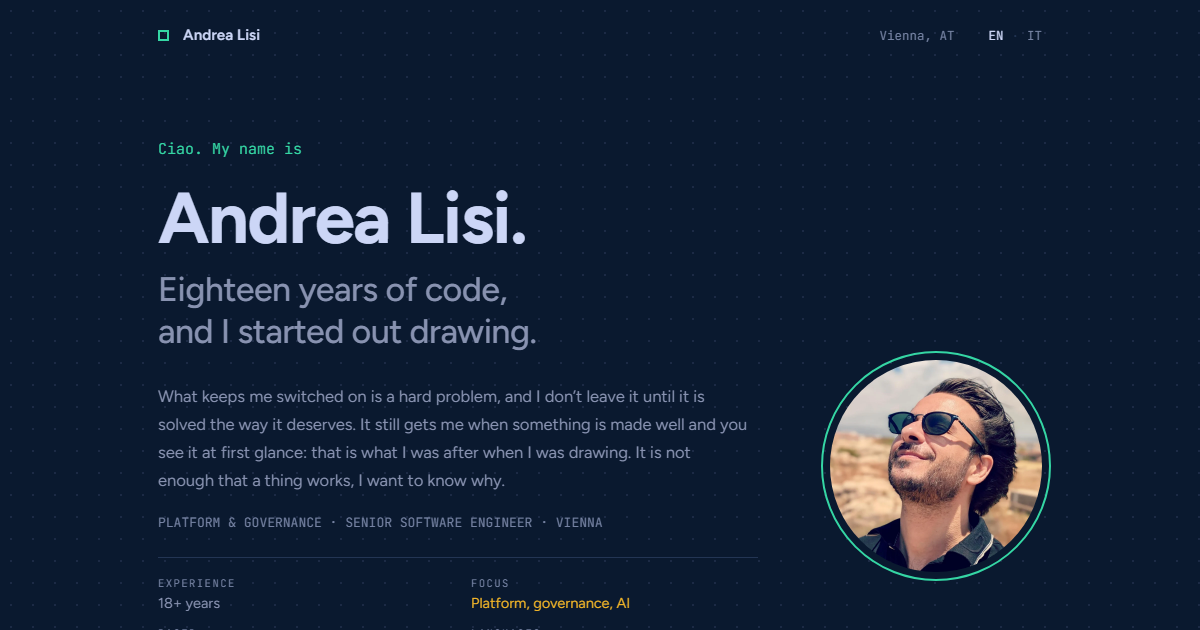
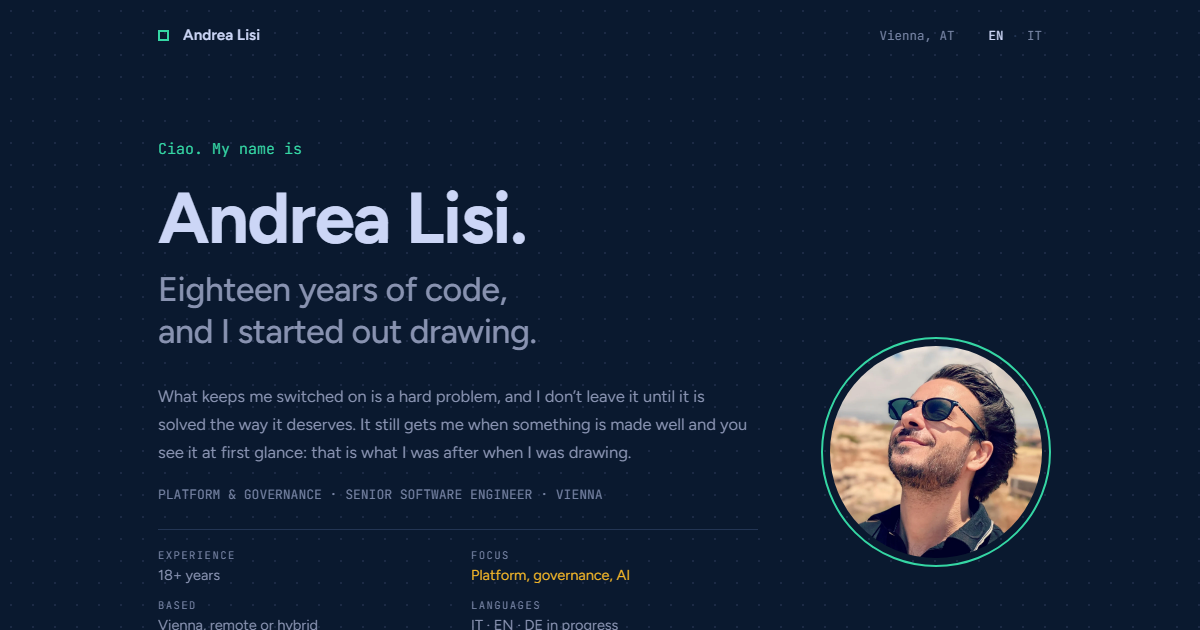
feat: close the career with what the steps add up to
His paragraph, and its middle two sentences are the clearest statement of
seniority anywhere in this project: not looking at the single feature but at the
foundations that hold the whole thing up. Nothing else here said what changed
about how he works, which is the actual argument for the level.

Placed after the four entries rather than in the hero, because "ogni tappa" is
about the steps and a reader cannot be told what they add up to before being
shown them. The suite pins it as the last element in the section, so it cannot
drift up into a lead.

Three edits to it. "Guardando indietro, vedo come ogni tappa abbia allargato il
mio sguardo" announced a reflection instead of making one, so it is now the
reflection: "Ogni tappa mi ha spostato lo sguardo un po' più in là del codice."
"Ho assimilato la programmazione" reads clinical for learning to code, so it is
"ci sono arrivato". And "ecosistema" went to "insieme", the word he uses himself
in the next breath.

The hero lost its last sentence, "non mi basta che funzioni, voglio sapere
perché", because the closing line makes the same claim and makes it better: not
wanting to know why, but knowing the whole thing holds. The hero now ends on the
drawing, which is its own note.

The English needed more than a translation. "Broadened my gaze" and "I
assimilated programming" are not things an English speaker says.

diff --git a/src/i18n/en.ts b/src/i18n/en.ts
@@ -43,7 +43,7 @@ export const en: Copy = {
       { label: 'FOUNDATION', value: 'Art school, Florence', tone: 'root' },
     ],
     intro:
-      'What keeps me switched on is a hard problem, and I don’t leave it until it is solved the way it deserves. It still gets me when something is made well and you see it at first glance: that is what I was after when I was drawing. It is not enough that a thing works, I want to know why.',
+      'What keeps me switched on is a hard problem, and I don’t leave it until it is solved the way it deserves. It still gets me when something is made well and you see it at first glance: that is what I was after when I was drawing.',
     buttons: { github: 'GITHUB', linkedin: 'LINKEDIN', email: 'EMAIL', cv: 'CV.PDF ↓' },
   },
 
@@ -143,6 +143,9 @@ export const en: Copy = {
       ],
     },
   ],
+
+  workClosing:
+    'Every step moved my attention a little further out from the code. I came to programming through art, looking for the same structural harmony, and today I don’t look at the single feature: I look at the foundations, the automation and the rules that hold the whole thing up. <b>I fix things at the root</b>, because it is not enough that one piece works: I need to know it holds the rest.',
 
   footer: {
     built: 'Written, designed and shipped by me.',

diff --git a/src/i18n/it.ts b/src/i18n/it.ts
@@ -49,7 +49,7 @@ export const it: Copy = {
       { label: 'FORMAZIONE', value: 'Istituto d’Arte, Firenze', tone: 'root' },
     ],
     intro:
-      'Quello che mi tiene acceso è un problema difficile, e non lo lascio finché non è risolto come si deve. Mi fa ancora effetto quando una cosa è fatta bene e si capisce al primo sguardo: è quello che cercavo quando disegnavo. Non mi basta che funzioni, voglio sapere perché.',
+      'Quello che mi tiene acceso è un problema difficile, e non lo lascio finché non è risolto come si deve. Mi fa ancora effetto quando una cosa è fatta bene e si capisce al primo sguardo: è quello che cercavo quando disegnavo.',
     buttons: { github: 'GITHUB', linkedin: 'LINKEDIN', email: 'EMAIL', cv: 'CV.PDF ↓' },
   },
 
@@ -149,6 +149,9 @@ export const it: Copy = {
       ],
     },
   ],
+
+  workClosing:
+    'Ogni tappa mi ha spostato lo sguardo un po’ più in là del codice. Alla programmazione ci sono arrivato dall’arte, cercando la stessa armonia strutturale, e oggi non guardo la singola feature: guardo le fondamenta, le automazioni e le regole che tengono in piedi l’insieme. <b>Risolvo alla radice</b>, perché non mi basta che un pezzo funzioni: devo sapere che regge tutto il resto.',
 
   footer: {
     built: 'Scritto, disegnato e messo online da me.',

diff --git a/tests/e2e/homepage.spec.ts b/tests/e2e/homepage.spec.ts
@@ -135,6 +135,12 @@ for (const locale of ['en', 'it'] as const) {
         await expect(card.locator('.duty')).toHaveCount(job.paragraphs.length);
         await expect(card.locator('.chip')).toHaveCount(job.tags.length);
       }
+
+      // The closing line only means anything after the entries, so it has to be
+      // the last thing in the section, not a lead over it.
+      const closing = page.locator('.work .closing');
+      await expect(closing).toHaveText(plain(copy.workClosing));
+      expect(await closing.evaluate((el) => el === el.parentElement?.lastElementChild)).toBe(true);
     });
 
     test('closes on an invitation, with the address behind the mail icon', async ({ page }) => {

diff --git a/src/components/work.css b/src/components/work.css
@@ -136,6 +136,24 @@
   color: var(--body);
 }
 
+/* What the four entries add up to. It reads as the conclusion of the section,
+   so it gets the rule above it that separates the cards and a little more size
+   than the duties it follows. */
+.work .closing {
+  margin: 34px 0 0;
+  padding-top: 30px;
+  border-top: 1px solid var(--line);
+  max-width: 66ch;
+  font-size: 16px;
+  line-height: 1.75;
+  color: var(--body);
+}
+
+.work .closing b {
+  color: var(--head);
+  font-weight: 600;
+}
+
 /* Ten years of drawing started here, so the mark matches the hero. */
 .work .chip.root svg {
   color: var(--root);

diff --git a/src/i18n/types.ts b/src/i18n/types.ts
@@ -125,6 +125,13 @@ export type Copy = {
 
   work: WorkEntry[];
 
+  /**
+   * HTML: the line that closes the career, after the four entries. It only
+   * works there, because it is about what the steps add up to, and a reader
+   * cannot be told that before being shown them.
+   */
+  workClosing: string;
+
   /** Small print at the very bottom. */
   footer: {
     built: string;
